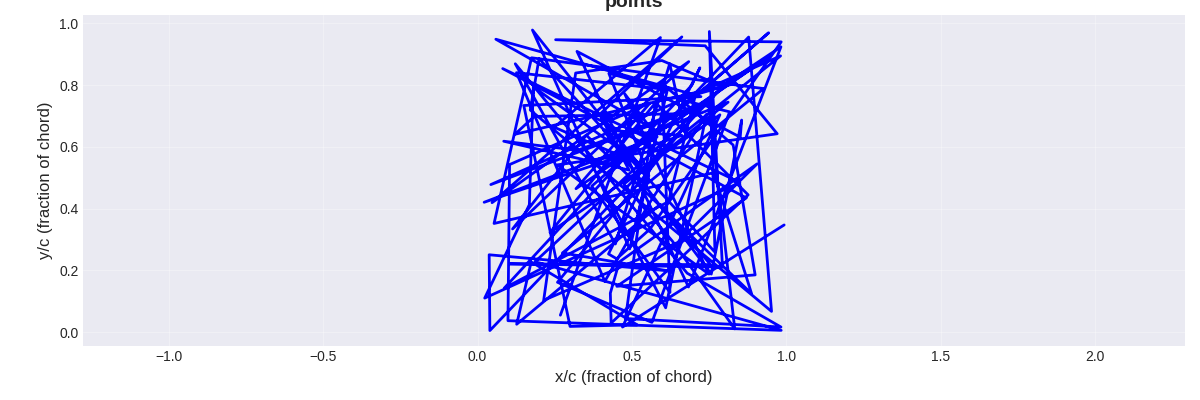
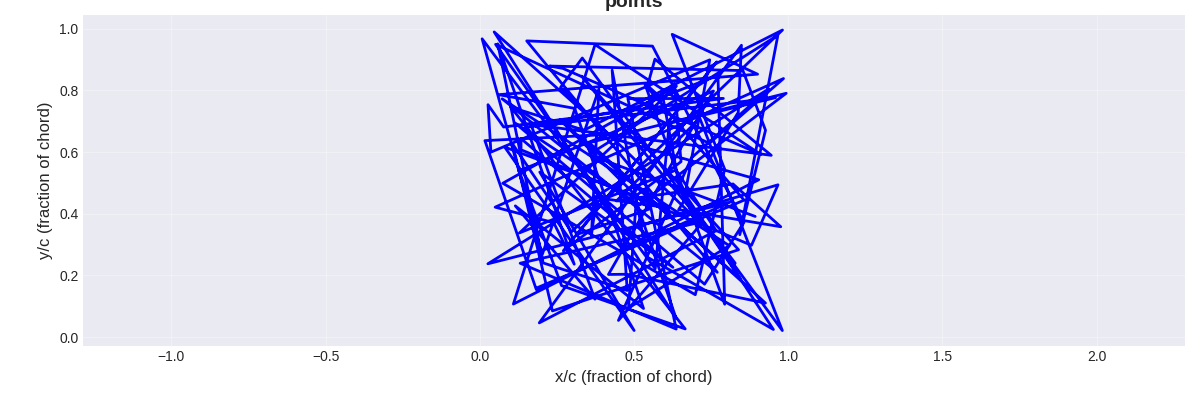
Added summary

diff --git a/analyse.py b/analyse.py
@@ -1,0 +1,18 @@
+import solver
+import numpy as np
+
+folder = input("Enter folder: ")
+x_points = []
+y_points = []
+with open(folder + '/' + "points.csv") as f:
+    for line in f.readlines():
+        splitline = line.split(',')
+        x_points.append(float(splitline[0]))
+        y_points.append(float(splitline[1]))
+x = np.array(x_points)
+y = np.array(y_points)
+with open(folder + '/' + "summary.txt") as f:
+    lines = f.readlines()
+    alpha_deg = int(lines[0].split()[-2])
+    Re_chord = int(lines[1].split()[-1])
+print(solver.calculateLD(x, y, alpha_deg, Re_chord)[0])

diff --git a/take1/README.md b/take1/README.md
@@ -1,5 +1,6 @@
 # Take 1
 ![The "airfoil" generated by my first test](points.png)
-**Randomising: Random x and y coordinates**
-**Evaluating:  Panel method solver**
-**Breeding:    Averaging x and y coordinates**
+**Randomising: Random x and y coordinates**  
+**Evaluating:  Panel method solver**  
+**Breeding:    Averaging x and y coordinates**  
+**Score:       -77459.69469191194**  
